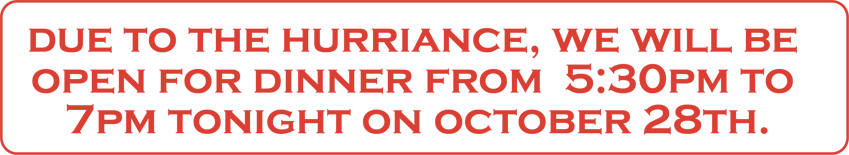
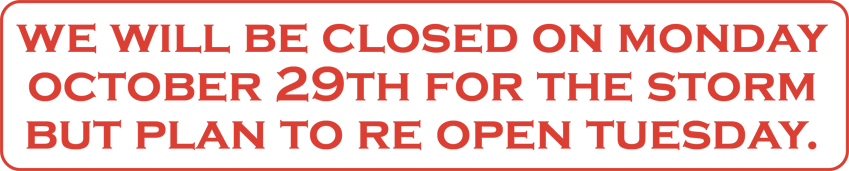
Update closed for hurricane sign

diff --git a/ny/index.html b/ny/index.html
@@ -53,7 +53,7 @@ body {
 <body>
 
 <div id="menu">
-	<img class="well" src="/static/img/closedforhurricane.png?v=0" alt="Special hours for the hurricane: 10/28/2012 5:30pm - 7pm"  width="849" height="155" />
+	<img class="well" src="/static/img/closedforhurricane.png?v=1" alt="Special hours for the hurricane: closed 10/29/2012"  width="849" height="171" />
 	<img class="well" src="/static/img/nymenu1.png?v=1" alt="Menu"  width="849" height="1190" />
 	<img class="well" src="/static/img/nymenu2.png?v=1" alt="Menu"  width="849" height="1102" />
 	<p id="footer">154 ORCHARD ST NY NY 10002 BETWEEN RIVINGTON &amp; STANTON ST</p>
